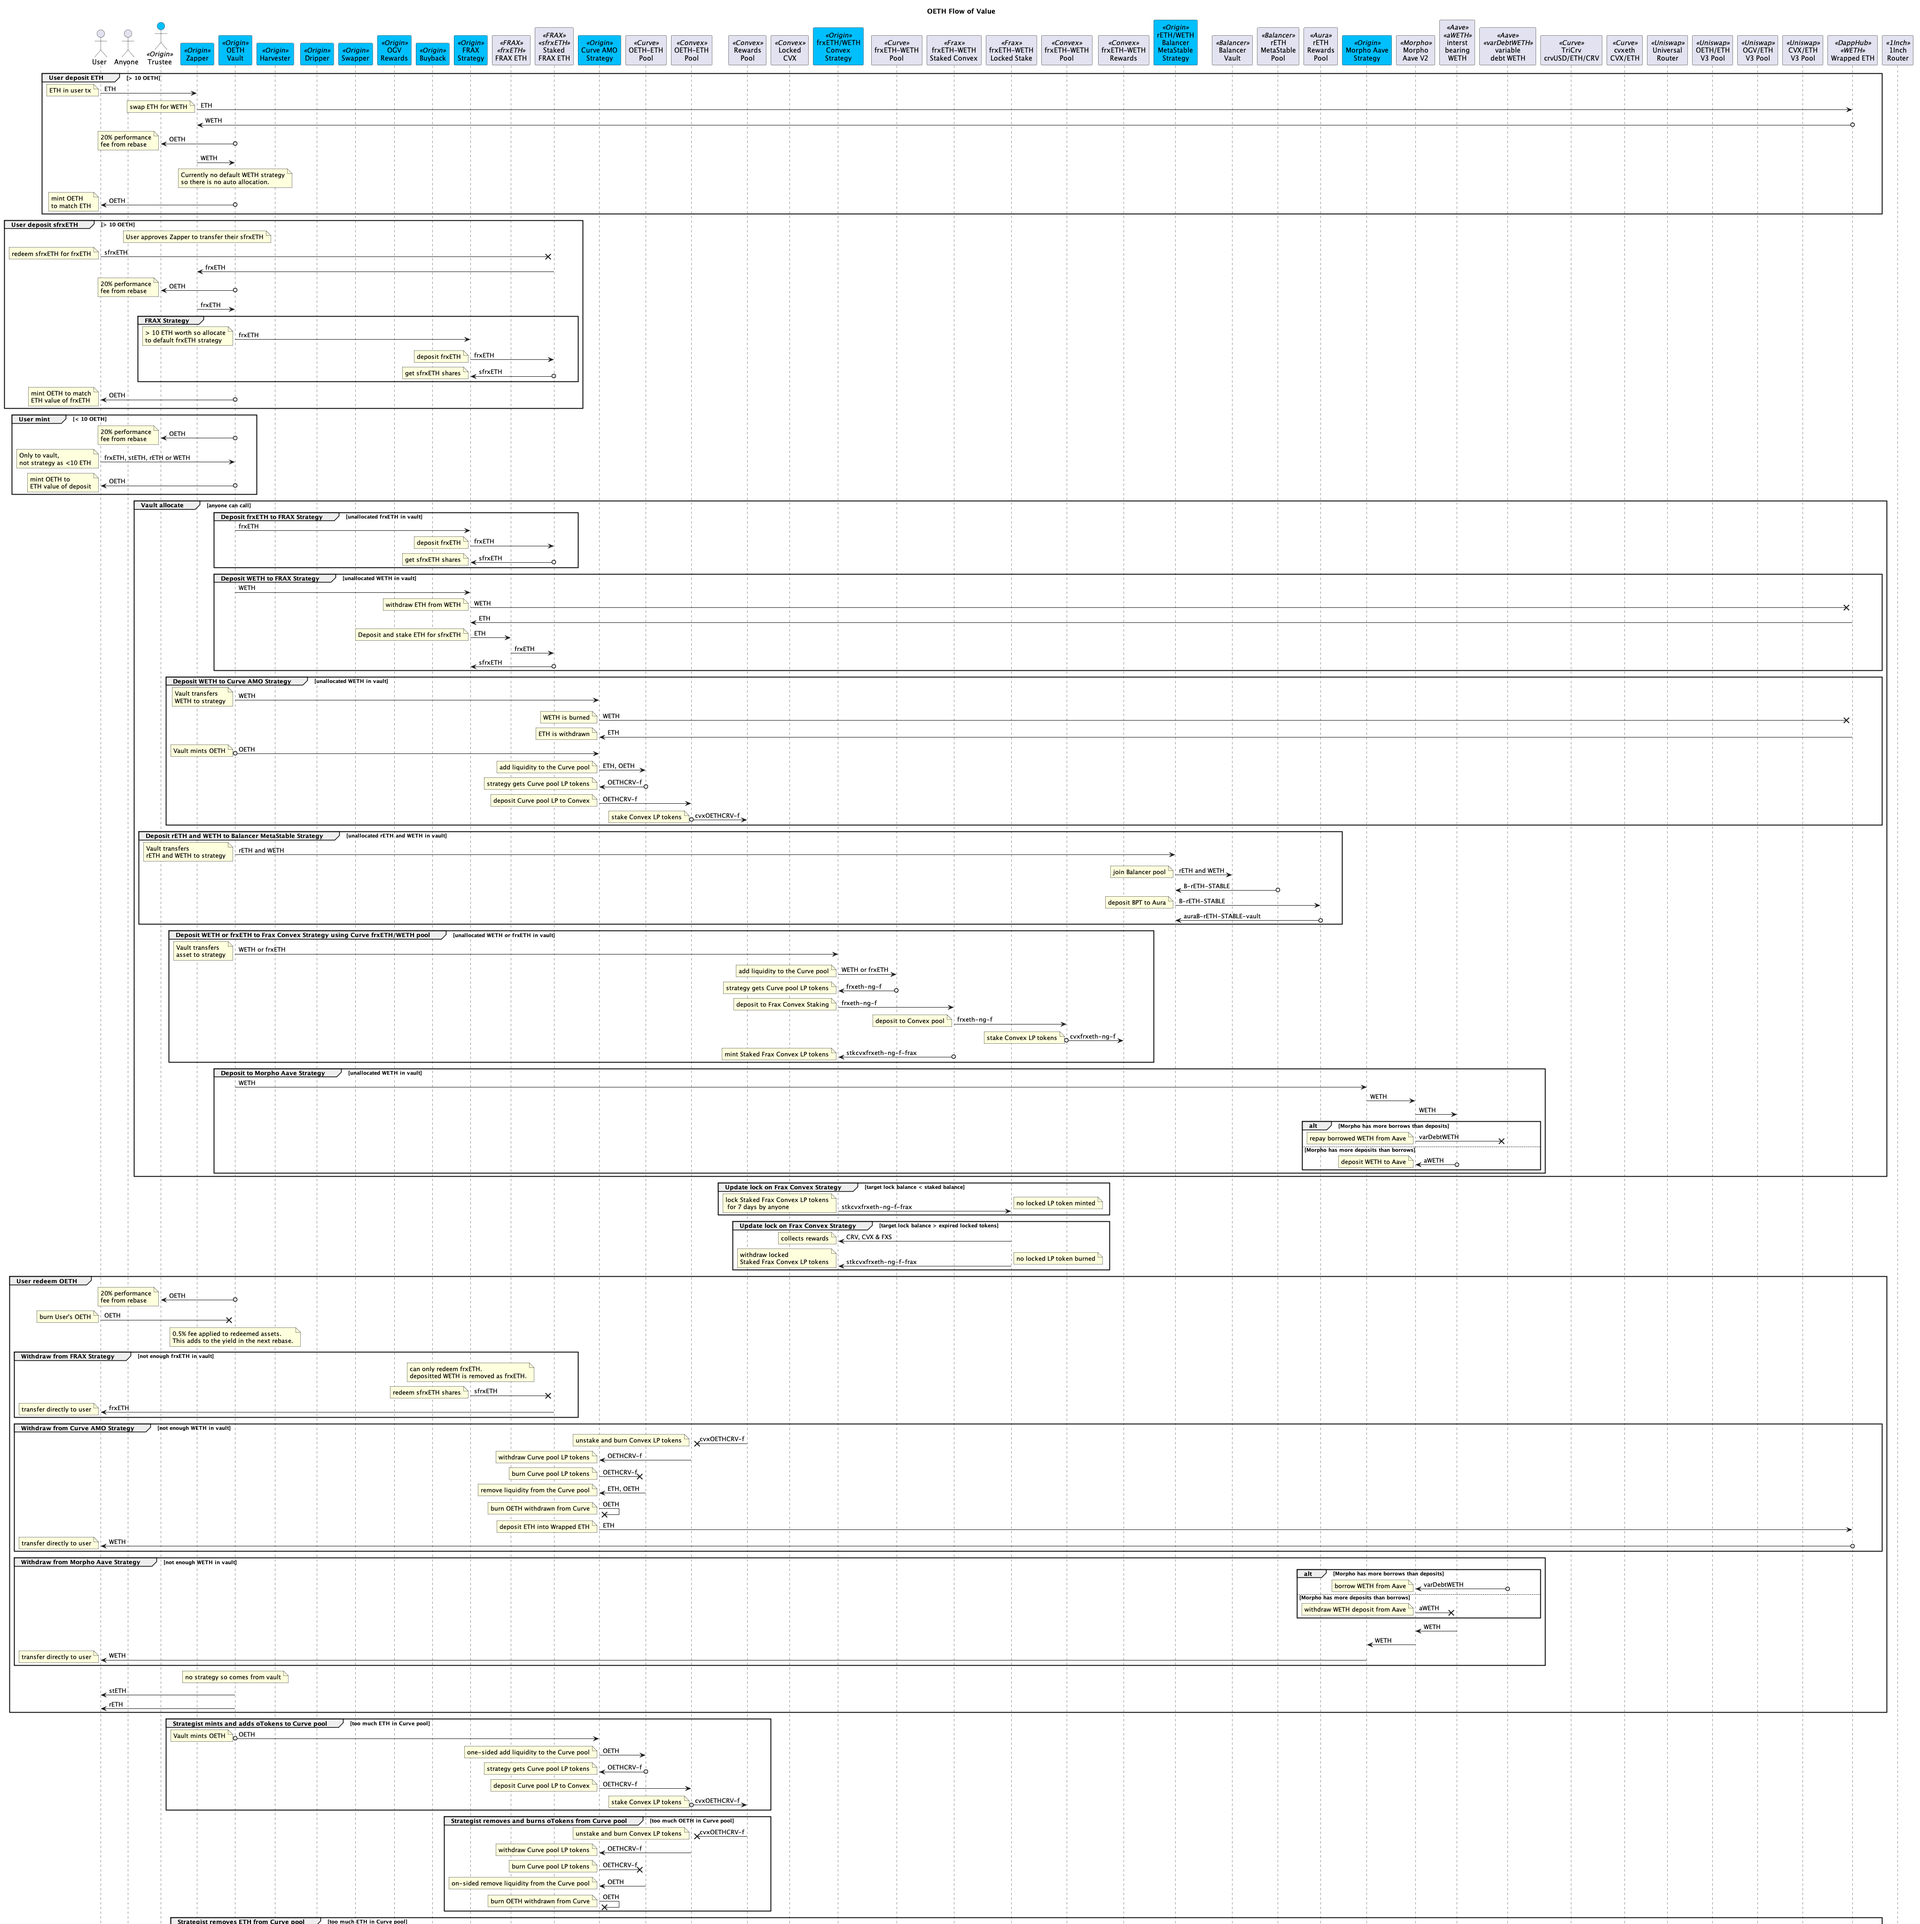
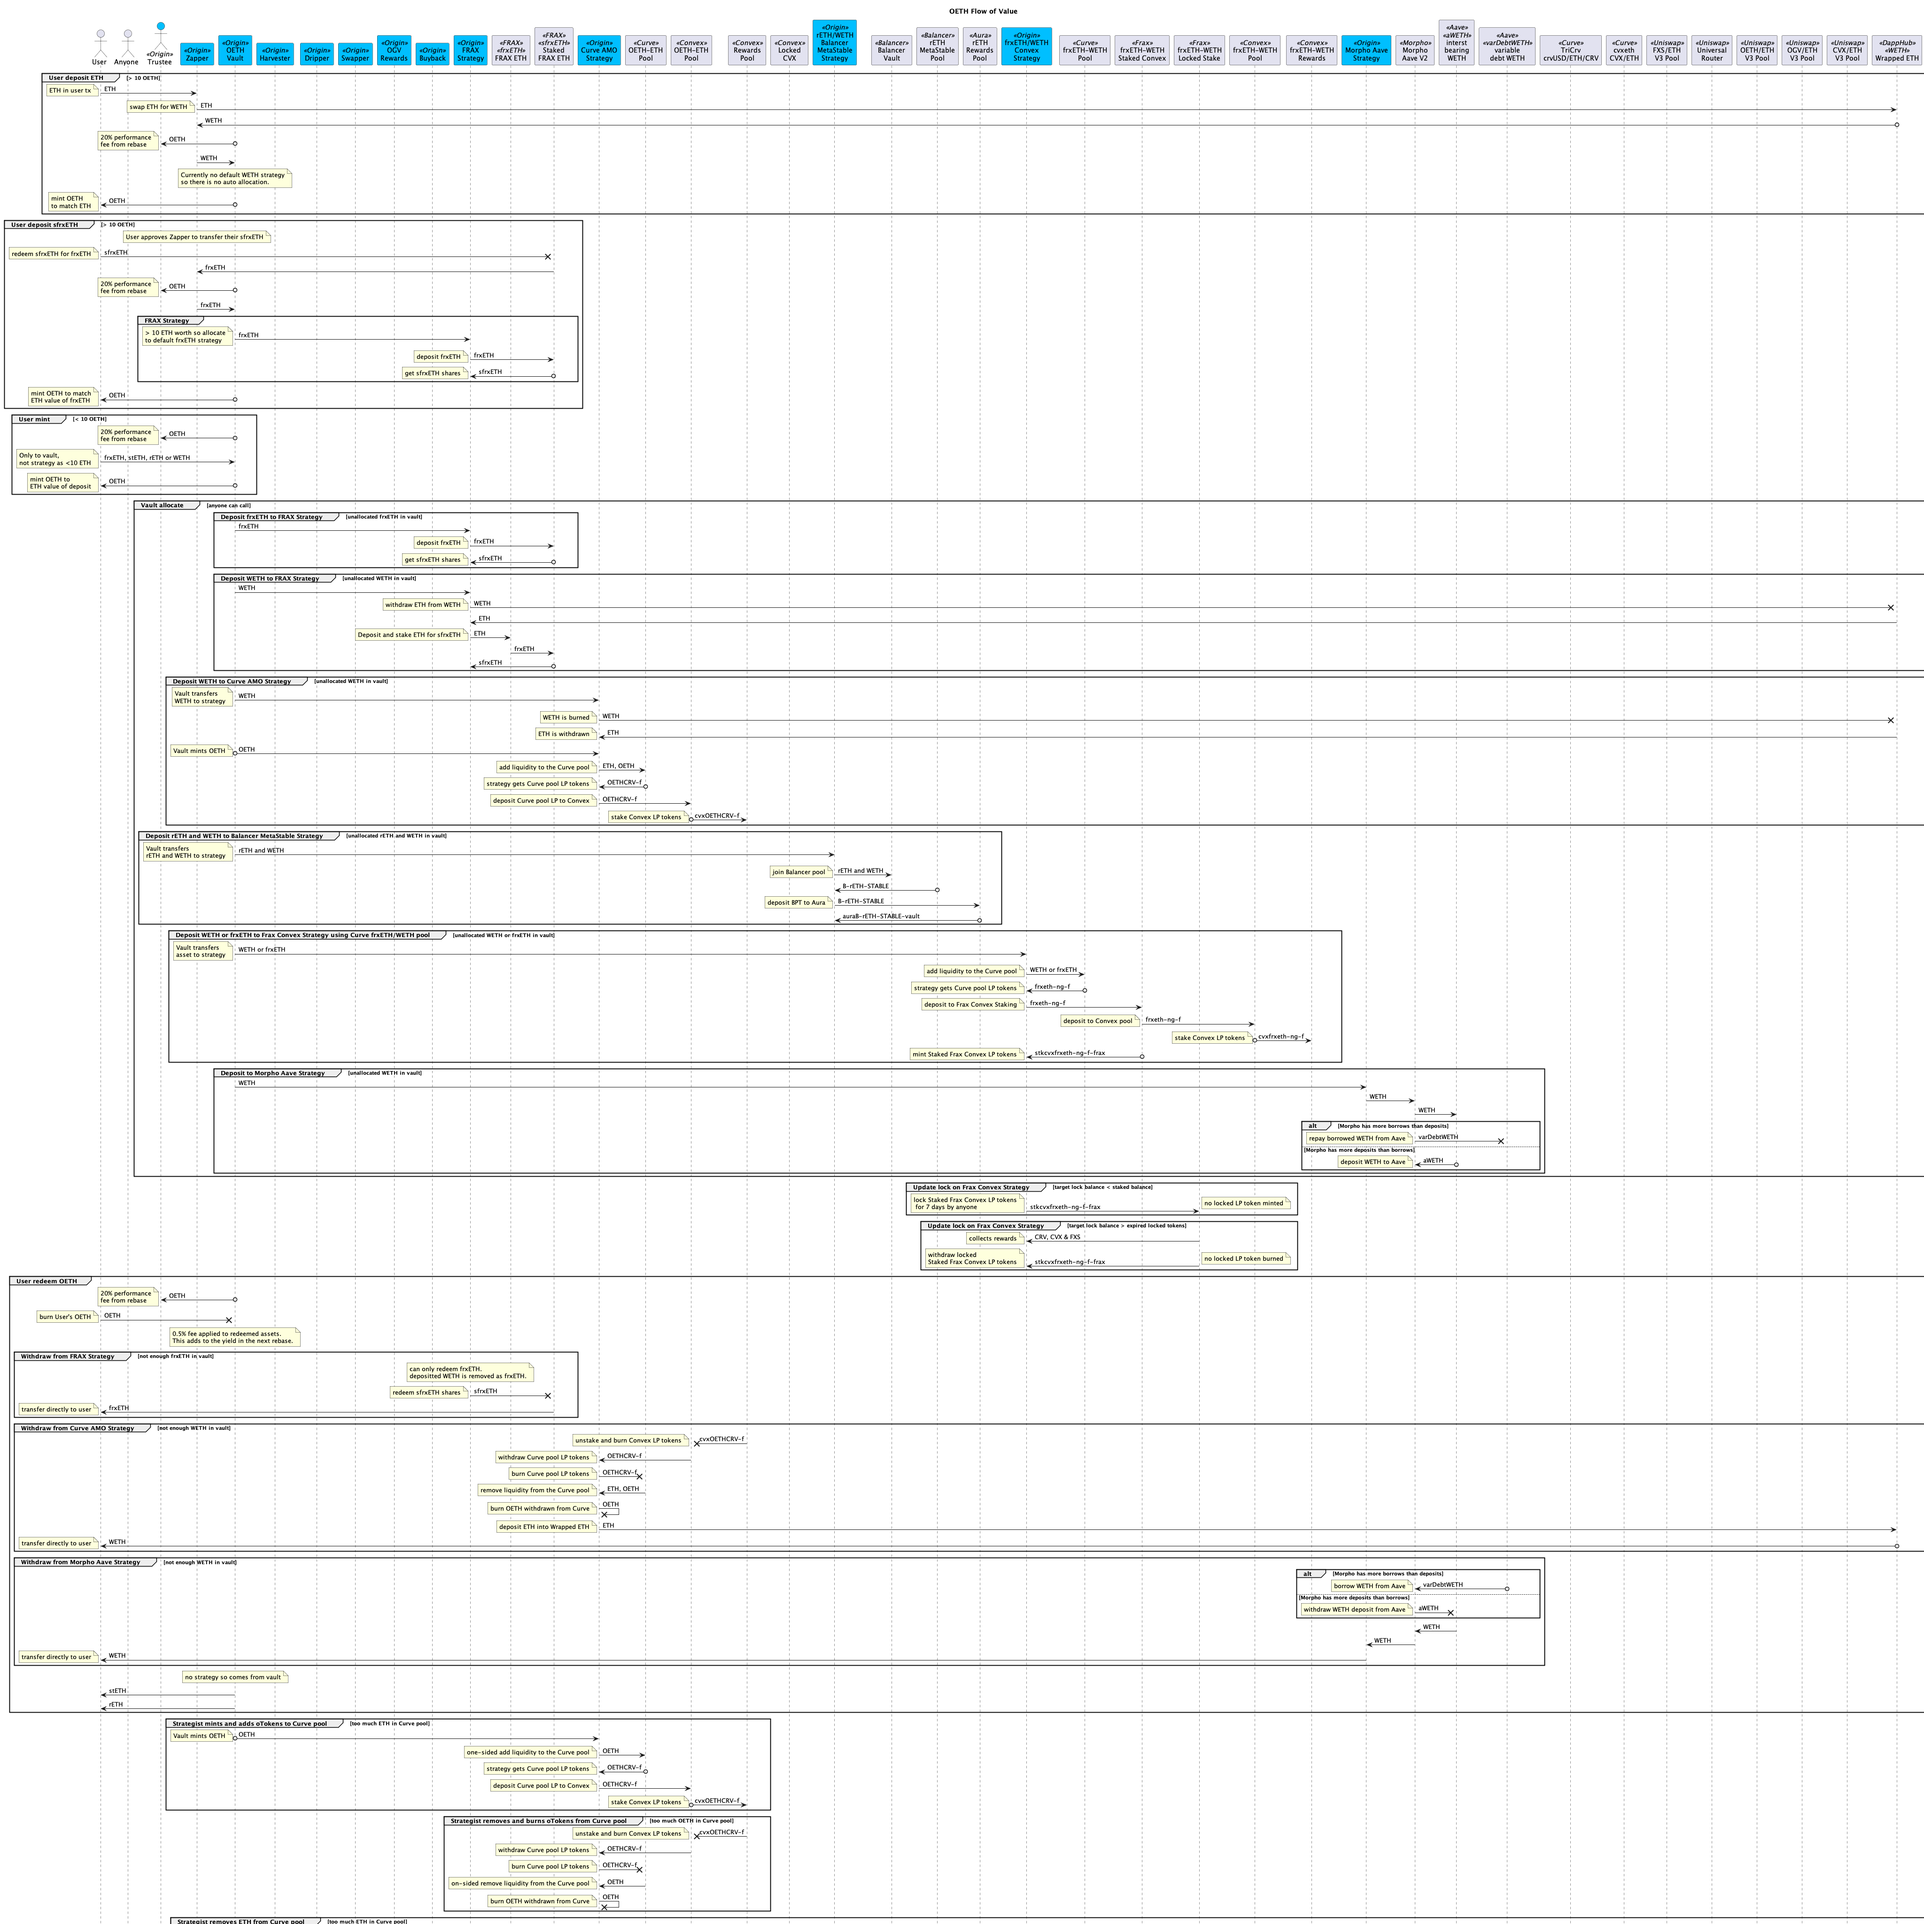
Added harvest of FXS to value flow

diff --git a/contracts/deploy/082_frax_convex_strategy.js b/contracts/deploy/082_frax_convex_strategy.js
@@ -160,7 +160,7 @@ module.exports = deploymentWithGovernanceProposal(
           signature: "setPriceProvider(address)",
           args: [dOETHRouter.address],
         },
-        // 5. Configure OETH Harvester to swap FXS with Curve
+        // 5. Configure OETH Harvester to swap FXS with Uniswap V3
         {
           contract: cHarvester,
           signature:
